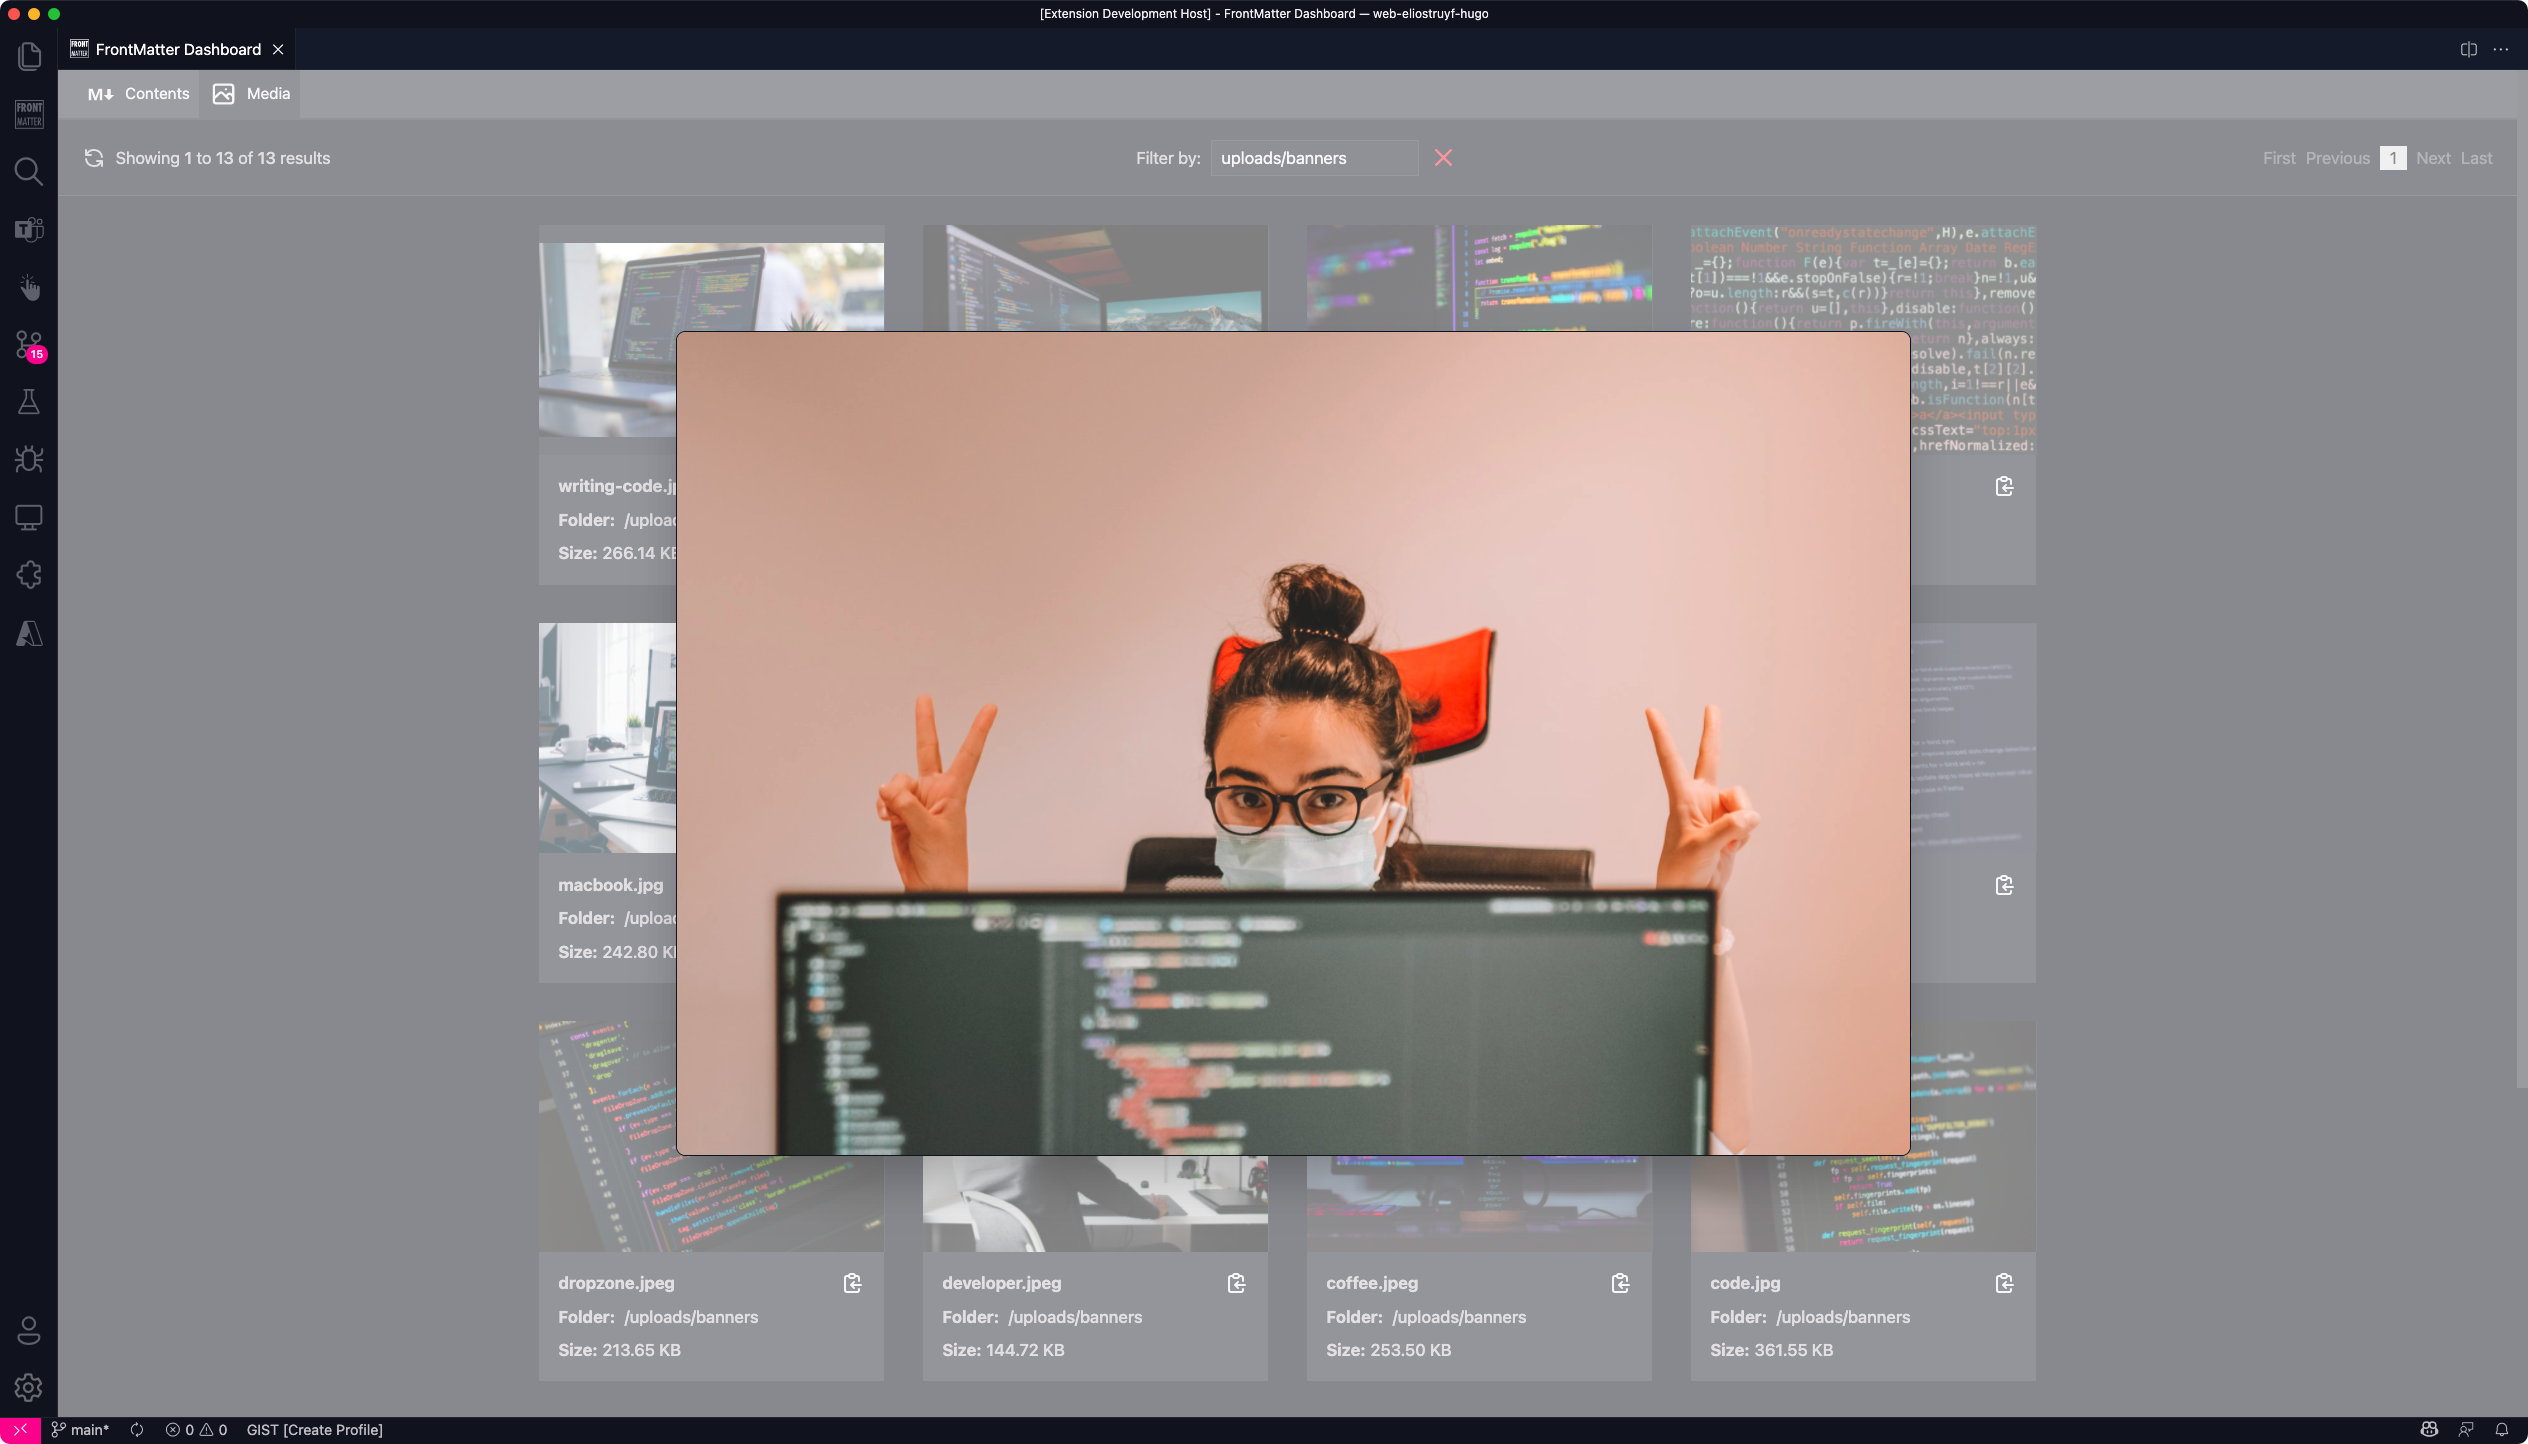
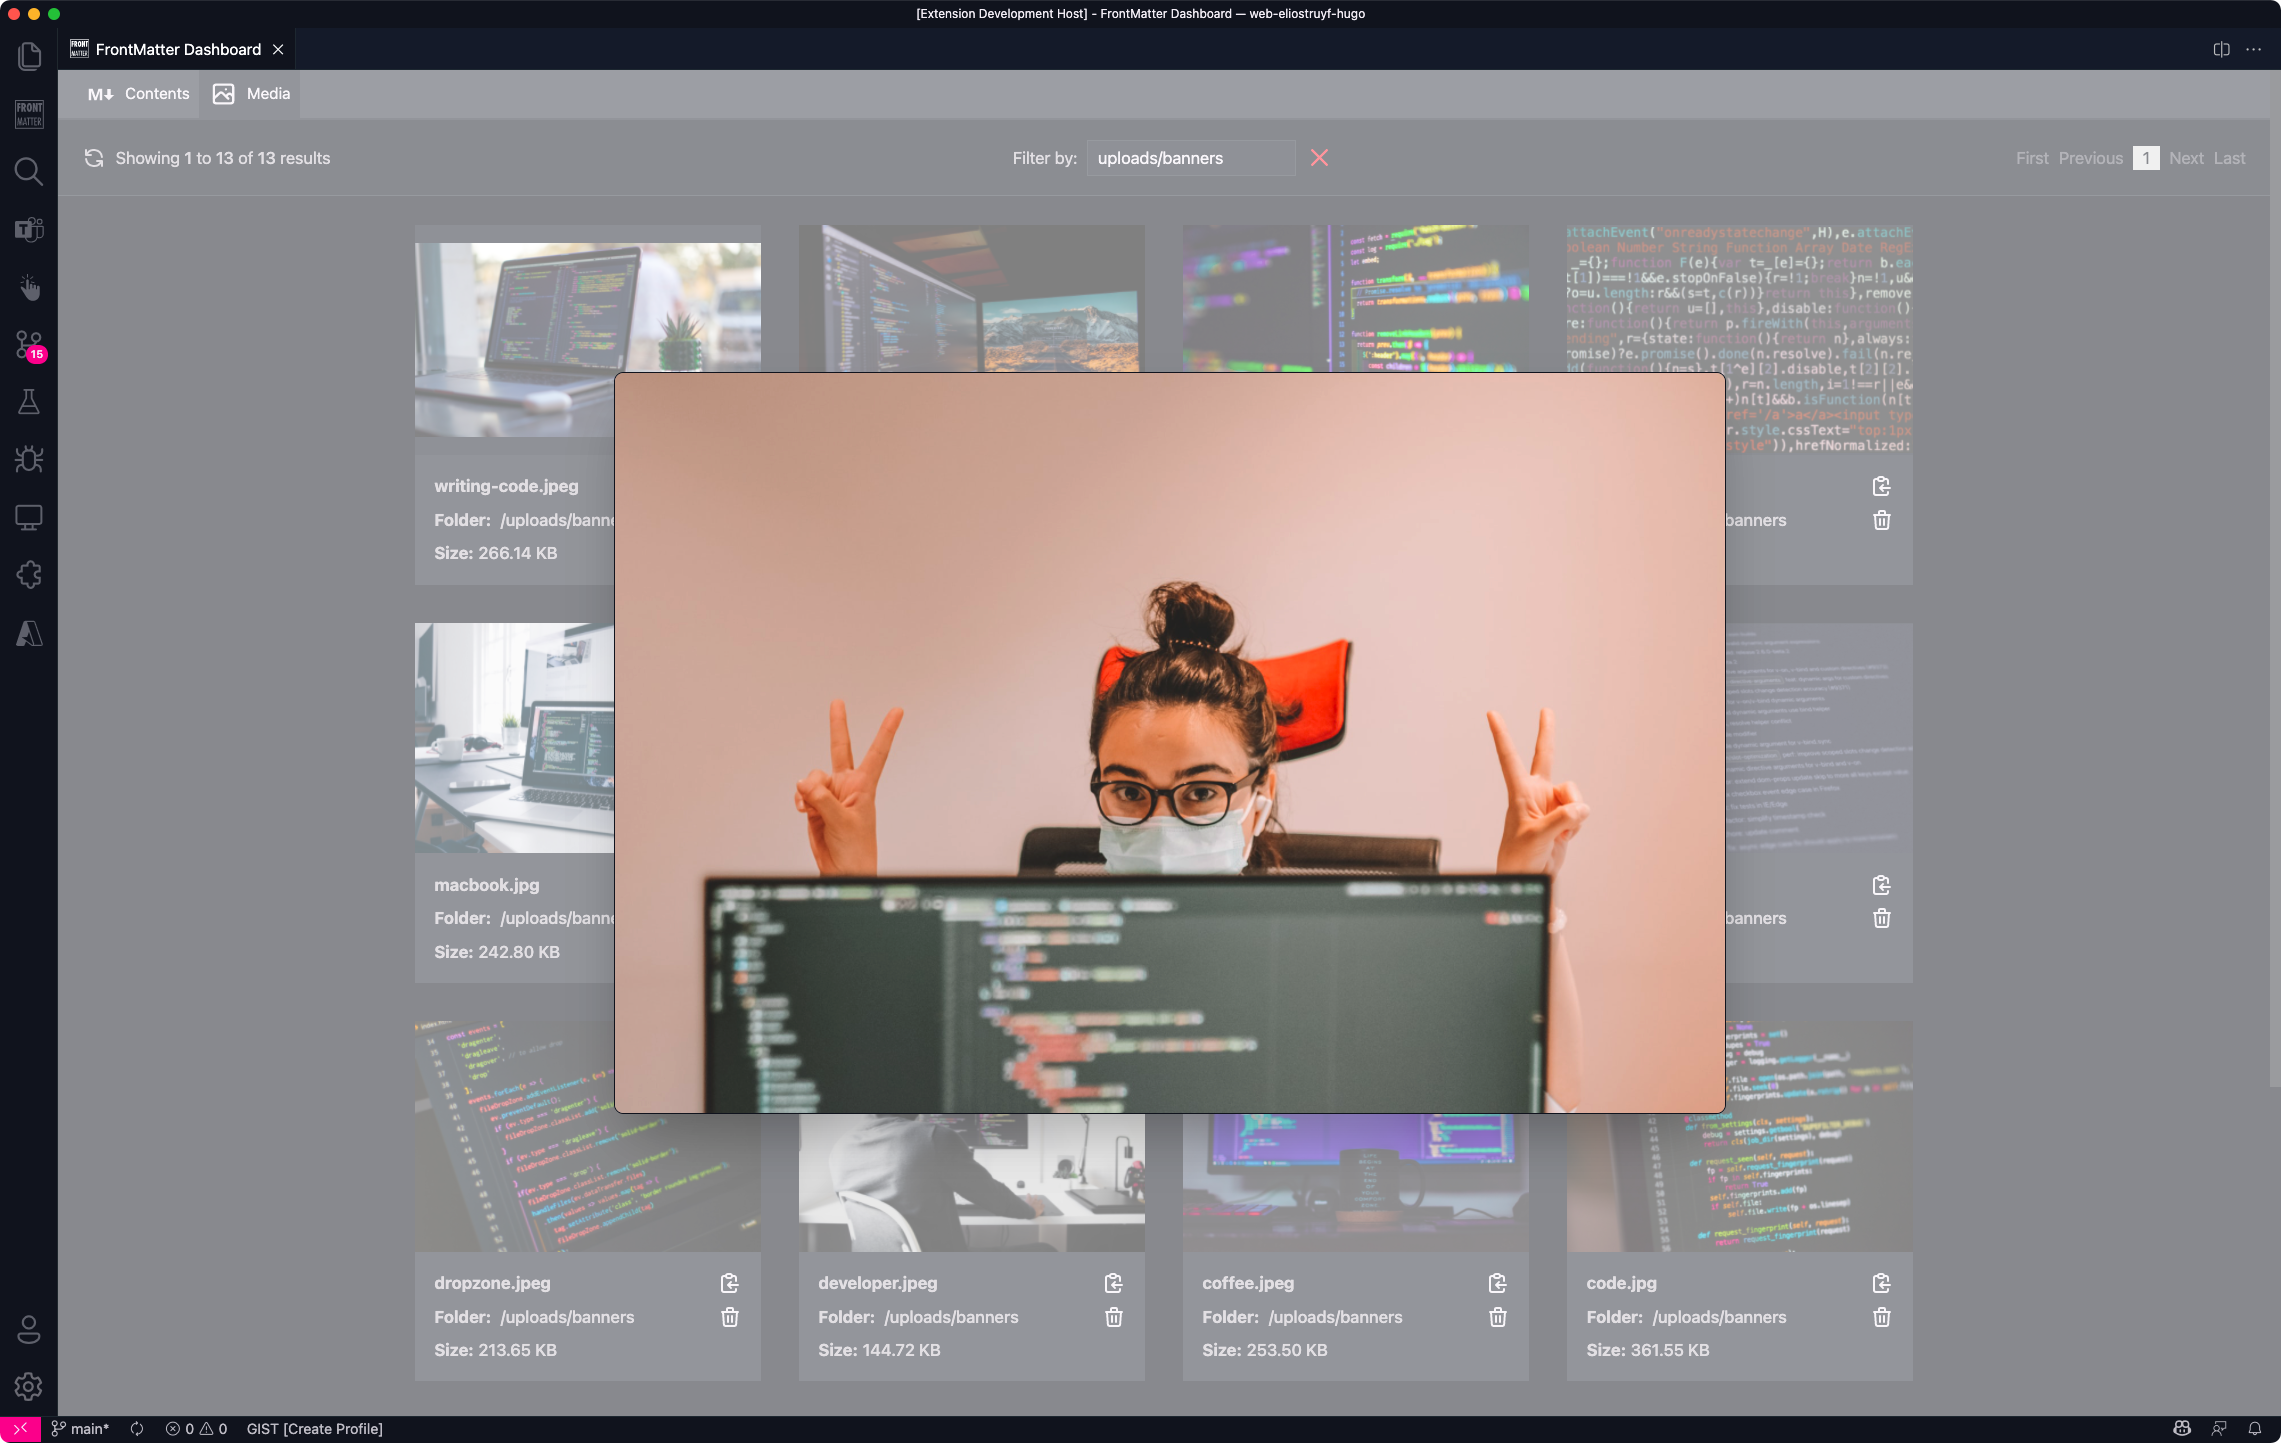
Updated documentations with delete and drag&drop

diff --git a/docs/components/Page/Hero.tsx b/docs/components/Page/Hero.tsx
@@ -18,7 +18,7 @@ export const Hero: React.FunctionComponent<IHeroProps> = ({view, title, descript
   return (
     <div className={`overflow-hidden lg:relative`}>
       <div className={`${className || ""} px-4 sm:px-6 xl:px-0 py-12 sm:py-16 lg:relative lg:mx-auto lg:max-w-7xl lg:grid lg:grid-cols-2 lg:grid-flow-col-dense lg:gap-24`}>
-        <div className={`max-w-3xl mx-auto lg:py-32 lg:max-w-none lg:mx-0 lg:px-0 ${view === "left" ? `lg:col-start-2` : `lg:col-start-1`}`}>
+        <div className={`max-w-3xl mx-auto lg:py-48 lg:max-w-none lg:mx-0 lg:px-0 ${view === "left" ? `lg:col-start-2` : `lg:col-start-1`}`}>
           <div>
             <h2 className="text-3xl lg:text-3xl xl:text-4xl tracking-tight font-extrabold sm:leading-none">
               {title}

diff --git a/docs/content/docs/dashboard.md b/docs/content/docs/dashboard.md
@@ -42,7 +42,17 @@ The media view has been created to make it easier to look at all media files ava
 
 ![Dashboard - Media view - Lightbox](/assets/lightbox.png)
 
-On the image card, there are actions like copying the relative path which you can then use in your article.
+### Media actions
+
+On the image card, there are actions like copying the relative path or deleting the media file.
+
+![Dashboard - Delete media file](/assets/delete-media.png)
+
+### Drag and Drop
+
+On the media view, we enabled drag and drop for your media files. You can easily drop any image from your explorer/finder window into one of your folders.
+
+![Dashboard - Upload media file](/assets/upload-media.png)
 
 ## Show on startup
 

diff --git a/docs/content/changelog/CHANGELOG.md b/docs/content/changelog/CHANGELOG.md
@@ -12,6 +12,7 @@
 - [#89](https://github.com/estruyf/vscode-front-matter/issues/89): Clear filter, sorting, and grouping button added
 - [#90](https://github.com/estruyf/vscode-front-matter/issues/90): Refactoring to use Recoil state management
 - [#91](https://github.com/estruyf/vscode-front-matter/issues/91): Support image previews from content folders
+- [#98](https://github.com/estruyf/vscode-front-matter/issues/98): Add drag and drop support for media upload in a folder
 
 ## [3.0.2] - 2021-08-31
 
